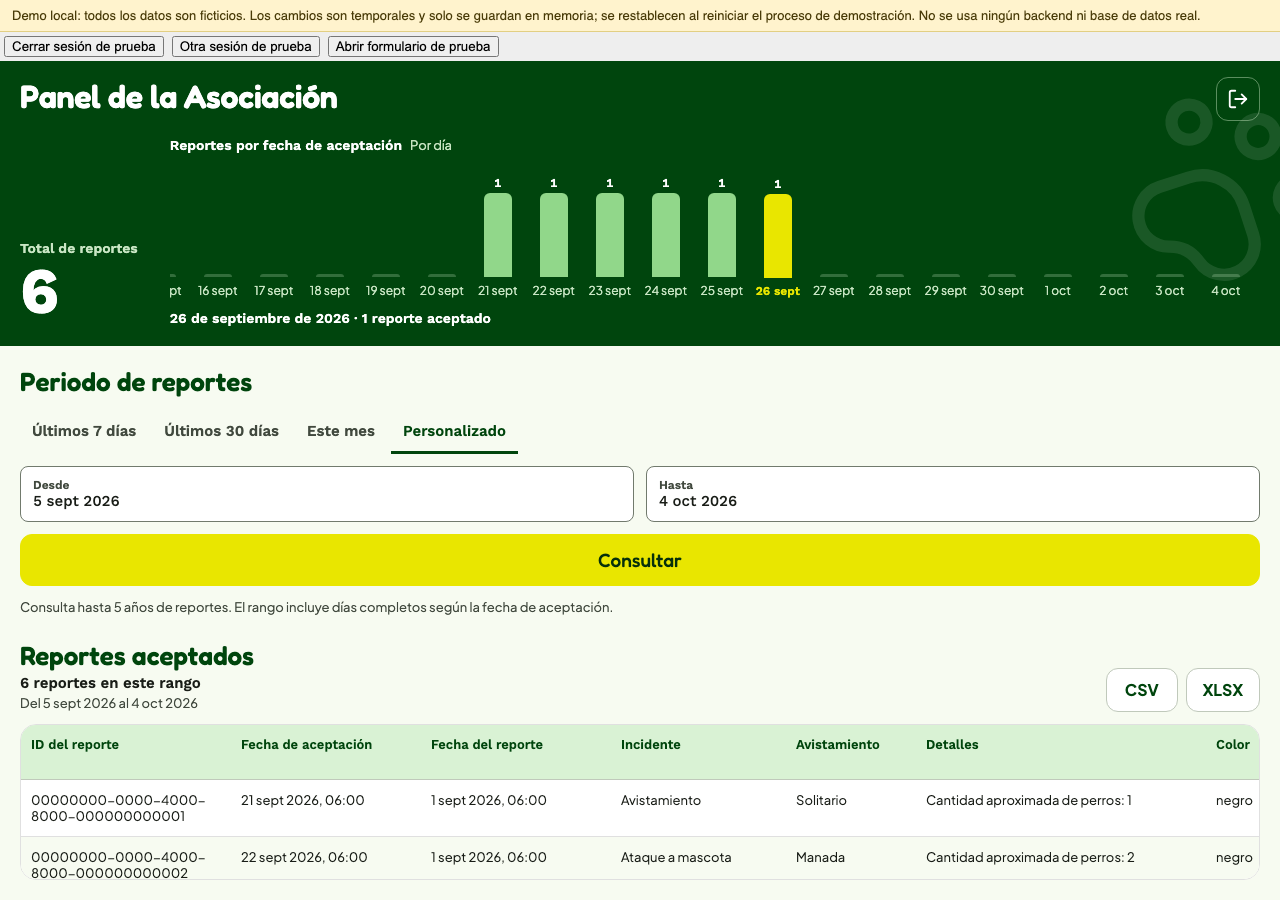
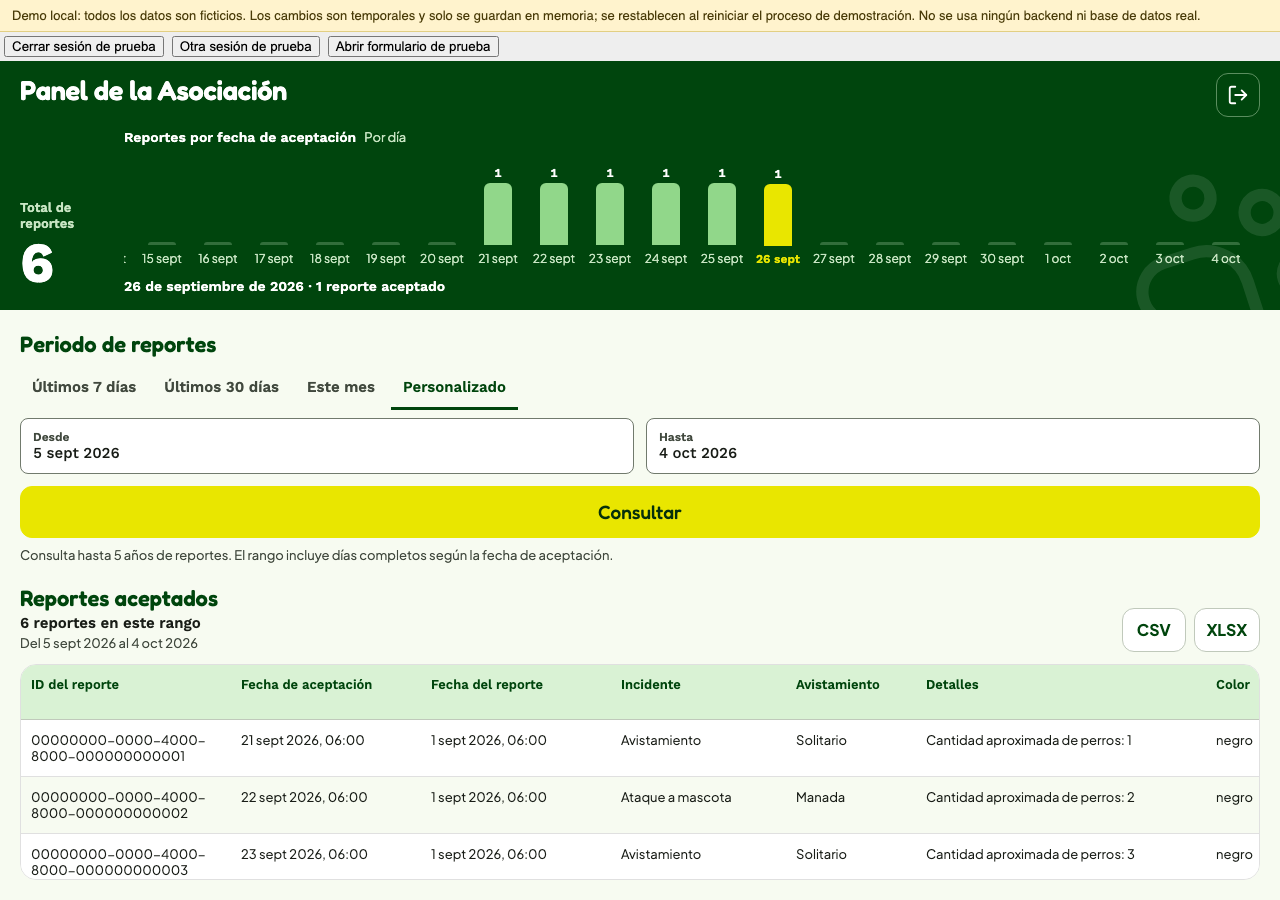
feat(ui): TD-134 Asociación con paginación de reportes y huella lejos del botón de salir
La lista móvil muestra diez reportes por página con el componente Pager y vuelve al inicio de resultados al cambiar de página; la exportación sigue usando todos los reportes. La huella grande baja en Asociación, Command Center y Duplicados para no tapar el botón de salir. Llaves pagePrev, pageNext y pageOf. Prueba nueva associationPagination.spec.js.

diff --git a/screens/associationDashboardScreen.js b/screens/associationDashboardScreen.js
@@ -3,7 +3,7 @@
  * Container screen for users with the `association` role: date range presets and custom dates,
  * accepted report summary, report cards (narrow) or table (wide, at least 900 px), and CSV/XLSX export.
  */
-import { useEffect, useMemo, useState } from 'react';
+import { useEffect, useMemo, useRef, useState } from 'react';
 import { useTranslation } from 'react-i18next';
 import { FlatList, Pressable, ScrollView, StyleSheet, Text, useWindowDimensions, View } from 'react-native';
 import { SafeAreaView } from 'react-native-safe-area-context';
@@ -16,9 +16,11 @@ import AssociationSummaryCard from '../components/associationSummaryCard.js';
 import AssociationReportCard from '../components/associationReportCard.js';
 import { buildAssociationSummary } from '../models/associationSummary.js';
 import { associationDisplayValues, presentAssociationReport } from '../presenters/associationDisplay.js';
-import { AppButton, Icon, StateView } from '../components/ui/index.js';
+import { AppButton, Icon, Pager, StateView } from '../components/ui/index.js';
 import { colors, fontFamily, layout, radius, spacing, type } from '../theme/index.js';
 
+/** Reports shown per page in the mobile list. */
+const PAGE_SIZE = 10;
 /** Table column widths in pixels, in `ASSOCIATION_REPORT_COLUMNS` order. */
 const WIDTHS = [210, 190, 190, 175, 130, 290, 150, 100, 105, 120, 120, 105];
 const TABLE_WIDTH = WIDTHS.reduce((sum, width) => sum + width, 0);
@@ -50,6 +52,10 @@ export default function AssociationDashboardScreen({ accessToken, displayName, o
   const [exportingFormat, setExportingFormat] = useState(null);
   const [exportError, setExportError] = useState(null);
   const reports = useAssociationReports(accessToken, getPage);
+  const [page, setPage] = useState(0);
+  const listRef = useRef(null);
+  const heroHeight = useRef(0);
+  const resultsY = useRef(0);
   const { loadRange } = reports;
   useEffect(() => { loadRange(fromDay, toDay); }, [loadRange]);
 
@@ -104,8 +110,18 @@ export default function AssociationDashboardScreen({ accessToken, displayName, o
     : reports.phase === 'idle' ? t('associationDashboard.idle') : null;
 
   const showReports = reports.phase === 'ready' && applied;
+  const pageCount = Math.max(1, Math.ceil(rows.length / PAGE_SIZE));
+  const currentPage = Math.min(page, pageCount - 1);
+  const pageRows = rows.slice(currentPage * PAGE_SIZE, (currentPage + 1) * PAGE_SIZE);
+  useEffect(() => { setPage(0); }, [rows]);
+  function changePage(next) {
+    setPage(next);
+    listRef.current?.scrollToOffset({ offset: Math.max(0, heroHeight.current + resultsY.current - 8), animated: true });
+  }
+  const pager = <Pager page={currentPage} pageCount={pageCount} onChange={changePage} previousLabel={t('associationDashboard.pagePrev')} nextLabel={t('associationDashboard.pageNext')}
+    pageLabel={t('associationDashboard.pageOf', { page: currentPage + 1, total: pageCount })} style={styles.pager} />;
   const loadingPhase = reports.phase === 'loading';
-  const hero = <View style={styles.hero}>
+  const hero = <View style={styles.hero} onLayout={(event) => { heroHeight.current = event.nativeEvent.layout.height; }}>
     <View pointerEvents="none" accessible={false} aria-hidden importantForAccessibility="no" style={styles.bigPaw}><Icon name="dog" size={210} color={colors.onPrimary} strokeWidth={1.4} /></View>
     <View style={styles.heroInner}>
       <View style={styles.titleRow}>
@@ -158,7 +174,7 @@ export default function AssociationDashboardScreen({ accessToken, displayName, o
         locale={i18n.language} previousMonthLabel={t('associationDashboard.previousMonth')} nextMonthLabel={t('associationDashboard.nextMonth')}
         cancelLabel={t('common.cancel')} onSelect={selectCustomDate} onClose={() => setCalendarField(null)} />
 
-      <View style={styles.resultsBar}>
+      <View style={styles.resultsBar} onLayout={(event) => { resultsY.current = event.nativeEvent.layout.y; }}>
         <View style={styles.resultsText}>
           <Text accessibilityRole="header" style={styles.resultsTitle}>{t('associationDashboard.results')}</Text>
           {resolvedRange ? <>
@@ -195,8 +211,9 @@ export default function AssociationDashboardScreen({ accessToken, displayName, o
 
   return <SafeAreaView style={styles.safeArea} edges={['top', 'left', 'right']}>
     {wide ? <View style={styles.wideRoot}>{hero}<View style={styles.page}>{controls}{table}</View></View>
-      : <FlatList style={styles.mobileList} contentContainerStyle={styles.mobileContent}
-        data={showReports ? rows : []} keyExtractor={(item) => item.id}
+      : <FlatList ref={listRef} style={styles.mobileList} contentContainerStyle={styles.mobileContent}
+        data={showReports ? pageRows : []} keyExtractor={(item) => item.id}
+        ListFooterComponent={showReports ? pager : null}
         ListHeaderComponent={<View>{hero}<View style={styles.controls}>{controls}</View></View>}
         renderItem={({ item }) => <AssociationReportCard report={item} />} />}
   </SafeAreaView>;
@@ -210,7 +227,7 @@ const styles = StyleSheet.create({
   mobileContent: { width: '100%', maxWidth: 960, alignSelf: 'center', paddingBottom: spacing.xxxl },
   controls: { paddingHorizontal: layout.margin, paddingTop: spacing.xxl },
   hero: { backgroundColor: colors.primary, overflow: 'hidden' },
-  bigPaw: { position: 'absolute', right: -44, top: 20, opacity: 0.1, transform: [{ rotate: '-18deg' }] },
+  bigPaw: { position: 'absolute', right: -48, top: 96, opacity: 0.1, transform: [{ rotate: '-18deg' }] },
   heroInner: { width: '100%', maxWidth: 1440, alignSelf: 'center', paddingHorizontal: layout.margin, paddingTop: spacing.lg, paddingBottom: spacing.xl },
   titleRow: { flexDirection: 'row', alignItems: 'flex-start', justifyContent: 'space-between', gap: spacing.md },
   heading: { flex: 1, gap: spacing.xs },
@@ -229,6 +246,7 @@ const styles = StyleSheet.create({
   dateField: { flex: 1, minHeight: 56, borderWidth: 1, borderColor: colors.outline, borderRadius: radius.sm, paddingHorizontal: spacing.md, paddingVertical: spacing.sm, backgroundColor: colors.surface, justifyContent: 'center' },
   dateLabel: { fontFamily: fontFamily.label, fontSize: 12, color: colors.inkMuted }, dateValue: { fontFamily: fontFamily.labelMedium, fontVariant: ['tabular-nums'], fontSize: 15, color: colors.ink },
   search: { borderRadius: 12 },
+  pager: { paddingVertical: spacing.xl, borderTopWidth: 1, borderTopColor: colors.border, backgroundColor: colors.surface },
   fieldError: { ...type.caption, fontSize: 13, color: colors.danger },
   filterHint: { ...type.caption, color: colors.inkMuted },
   resultsBar: { flexDirection: 'row', flexWrap: 'wrap', justifyContent: 'space-between', alignItems: 'flex-end', gap: spacing.md, marginTop: spacing.xxl, marginBottom: spacing.md },

diff --git a/components/associationReportCard.js b/components/associationReportCard.js
@@ -44,10 +44,10 @@ export default function AssociationReportCard({ report }) {
 
     <Text style={styles.sectionTitle}>{t('associationDashboard.card.dog')}</Text>
     <View style={styles.infoRow}>
-      <Info label={t('associationDashboard.card.size')} value={display.size} style={styles.half} />
-      <Info label={t('associationDashboard.card.color')} value={display.color} style={styles.half} />
-      <Info label={t('associationDashboard.card.collar')} value={display.collar} style={styles.half} />
-      <Info label={t('associationDashboard.card.photo')} value={display.photo} style={styles.half} />
+      <Info label={t('associationDashboard.card.size')} value={display.size} style={styles.quarter} />
+      <Info label={t('associationDashboard.card.color')} value={display.color} style={styles.quarter} />
+      <Info label={t('associationDashboard.card.collar')} value={display.collar} style={styles.quarter} />
+      <Info label={t('associationDashboard.card.photo')} value={display.photo} style={styles.quarter} />
     </View>
 
     {display.details.length ? <View style={styles.details}>
@@ -63,7 +63,7 @@ export default function AssociationReportCard({ report }) {
 }
 
 const styles = StyleSheet.create({
-  row: { backgroundColor: colors.surface, borderTopWidth: 1, borderTopColor: colors.border, paddingHorizontal: layout.margin, paddingVertical: spacing.lg, gap: spacing.md },
+  row: { backgroundColor: colors.surface, borderTopWidth: 1, borderTopColor: colors.border, paddingHorizontal: layout.margin, paddingVertical: spacing.lg, gap: spacing.sm },
   header: { flexDirection: 'row', justifyContent: 'space-between', alignItems: 'flex-start', gap: spacing.md },
   heading: { flex: 1, minWidth: 0, gap: 2 },
   incident: { fontFamily: fontFamily.displayMedium, fontSize: 21, lineHeight: 27, color: colors.ink },
@@ -71,8 +71,9 @@ const styles = StyleSheet.create({
   accepted: { alignItems: 'flex-end', gap: 2 },
   acceptedLabel: { fontFamily: fontFamily.regular, fontSize: 12, color: colors.inkMuted },
   acceptedDate: { fontFamily: fontFamily.label, fontVariant: ['tabular-nums'], fontSize: 13, color: colors.ink },
-  infoRow: { flexDirection: 'row', flexWrap: 'wrap', gap: spacing.md },
+  infoRow: { flexDirection: 'row', flexWrap: 'wrap', gap: spacing.md, columnGap: spacing.sm },
   half: { flexBasis: '45%', flexGrow: 1 },
+  quarter: { flexBasis: '21%', flexGrow: 1 },
   info: { minWidth: 0, gap: 1 },
   infoLabel: { fontFamily: fontFamily.label, fontSize: 12, color: colors.inkMuted },
   infoValue: { ...type.body, fontSize: 15, lineHeight: 21, color: colors.ink },

diff --git a/tests/ui/associationPagination.spec.js b/tests/ui/associationPagination.spec.js
@@ -1,0 +1,42 @@
+import { test, expect } from '@playwright/test';
+const row = (number) => ({
+  id: `00000000-0000-4000-8000-${String(number).padStart(12, '0')}`,
+  location: { longitude: -106.08, latitude: 28.63 },
+  incident_type: 'avistamiento_simple', sighting_type: 'solitario',
+  details: { cantidad_aprox: 1 },
+  dog: { predominant_color: null, size: 'mediano', has_collar: false },
+  has_sanitized_photo: false,
+  occurred_at: '2026-09-01T12:00:00.000Z',
+  accepted_at: '2026-09-28T12:00:00.000Z',
+});
+const errors = new WeakMap();
+test.beforeEach(({ page }) => { const list = []; errors.set(page, list); page.on('pageerror', (e) => list.push(e.message)); });
+test.afterEach(({ page }) => expect(errors.get(page)).toEqual([]));
+
+async function open(page, count) {
+  await page.route('**/association/reports?**', (route) => route.fulfill({ json: { data: { items: Array.from({ length: count }, (_, i) => row(i + 1)), next_cursor: null } } }));
+  await page.goto('/?association');
+  await expect(page.getByText(`${count} reportes en este rango`)).toBeVisible();
+}
+
+test('mobile list shows ten reports per page and the total stays complete', async ({ page }) => {
+  await open(page, 25);
+  await expect(page.getByTestId('association-total')).toHaveText('25');
+  await expect(page.getByTestId('association-report-card')).toHaveCount(10);
+  await expect(page.getByText('Página 1 de 3', { exact: true })).toBeVisible();
+  await expect(page.getByRole('button', { name: 'Anterior', exact: true })).toBeDisabled();
+  await page.getByRole('button', { name: 'Siguiente', exact: true }).click();
+  await expect(page.getByText('Página 2 de 3', { exact: true })).toBeVisible();
+  await expect(page.getByText(row(11).id)).toBeAttached();
+  await expect(page.getByText(row(1).id)).toHaveCount(0);
+  await page.getByRole('button', { name: 'Siguiente', exact: true }).click();
+  await expect(page.getByTestId('association-report-card')).toHaveCount(5);
+  await expect(page.getByRole('button', { name: 'Siguiente', exact: true })).toBeDisabled();
+});
+
+test('few reports show no pager and export stays enabled', async ({ page }) => {
+  await open(page, 4);
+  await expect(page.getByTestId('association-report-card')).toHaveCount(4);
+  await expect(page.getByRole('button', { name: 'Siguiente', exact: true })).toHaveCount(0);
+  await expect(page.getByRole('button', { name: 'CSV', exact: true })).toBeEnabled();
+});

diff --git a/docs/redesign/capture/after-association-many.spec.js b/docs/redesign/capture/after-association-many.spec.js
@@ -1,0 +1,11 @@
+import { test } from '@playwright/test';
+const row = (n) => ({ id: `00000000-0000-4000-8000-${String(n).padStart(12, '0')}`, location: { longitude: -106.08, latitude: 28.63 }, incident_type: 'avistamiento_simple', sighting_type: 'solitario', details: { cantidad_aprox: 1 }, dog: { predominant_color: 'negro', size: 'mediano', has_collar: false }, has_sanitized_photo: false, occurred_at: '2026-09-01T12:00:00.000Z', accepted_at: '2026-09-28T12:00:00.000Z' });
+test.use({ viewport: { width: 390, height: 844 }, locale: 'es-MX' });
+test('many', async ({ page }) => {
+  await page.route('**/association/reports?**', (r) => r.fulfill({ json: { data: { items: Array.from({ length: 25 }, (_, i) => row(i + 1)), next_cursor: null } } }));
+  await page.goto('/?association');
+  await page.waitForTimeout(700);
+  await page.getByText('Página 1 de 3').scrollIntoViewIfNeeded();
+  await page.waitForTimeout(300);
+  await page.screenshot({ path: 'docs/redesign/after/web/es_association_pager.png' });
+});

diff --git a/screens/DuplicateManagementScreen.js b/screens/DuplicateManagementScreen.js
@@ -219,7 +219,7 @@ export default function DuplicateManagementScreen({accessToken,onBack,api}) {
 }
 const styles=StyleSheet.create({
   flex:{flex:1},safe:{flex:1,backgroundColor:colors.primary},scroll:{backgroundColor:colors.background},content:{flexGrow:1},
-  header:{backgroundColor:colors.primary,overflow:'hidden'},bigPaw:{position:'absolute',right:-44,top:40,opacity:0.1,transform:[{rotate:'-18deg'}]},
+  header:{backgroundColor:colors.primary,overflow:'hidden'},bigPaw:{position:'absolute',right:-48,top:96,opacity:0.1,transform:[{rotate:'-18deg'}]},
   headerInner:{width:'100%',maxWidth:920,alignSelf:'center',paddingHorizontal:layout.margin,paddingTop:spacing.xs,paddingBottom:spacing.xxl,gap:spacing.sm},
   topActions:{flexDirection:'row',alignItems:'center',justifyContent:'space-between'},
   back:{flexDirection:'row',alignItems:'center',gap:spacing.xs,minHeight:layout.minTouch},backText:{...type.button,fontSize:15,color:colors.onPrimary},

diff --git a/screens/CommandCenterScreen.js b/screens/CommandCenterScreen.js
@@ -273,7 +273,7 @@ const styles = StyleSheet.create({
   list: { backgroundColor: colors.background },
   content: { flexGrow: 1, backgroundColor: colors.background, paddingBottom: 32 },
   hero: { backgroundColor: colors.primary, overflow: 'hidden' },
-  bigPaw: { position: 'absolute', right: -44, top: 56, opacity: 0.1, transform: [{ rotate: '-18deg' }] },
+  bigPaw: { position: 'absolute', right: -48, top: 120, opacity: 0.1, transform: [{ rotate: '-18deg' }] },
   heroInner: { width: '100%', maxWidth: 960, alignSelf: 'center', paddingHorizontal: layout.margin, paddingTop: spacing.sm, paddingBottom: spacing.xl, gap: spacing.sm },
   titleRow: { flexDirection: 'row', alignItems: 'center', justifyContent: 'space-between', gap: spacing.md, marginTop: spacing.lg },
   logout: { width: layout.minTouch, height: layout.minTouch, borderRadius: 12, alignItems: 'center', justifyContent: 'center', borderWidth: 1, borderColor: 'rgba(201,230,196,0.45)' },
